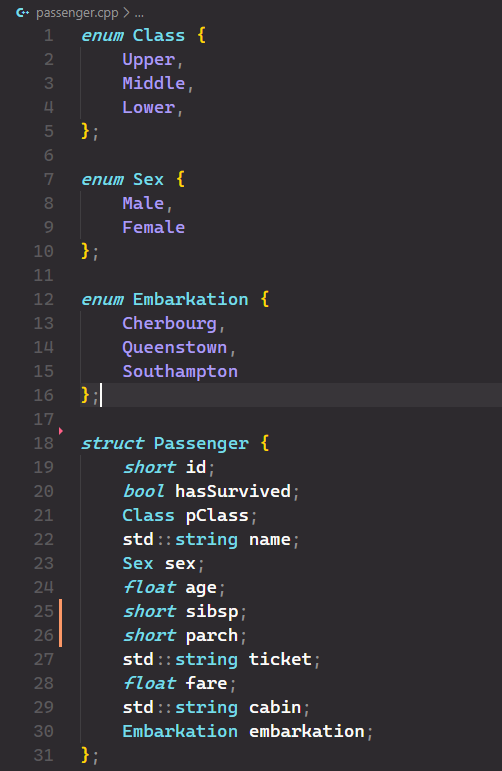
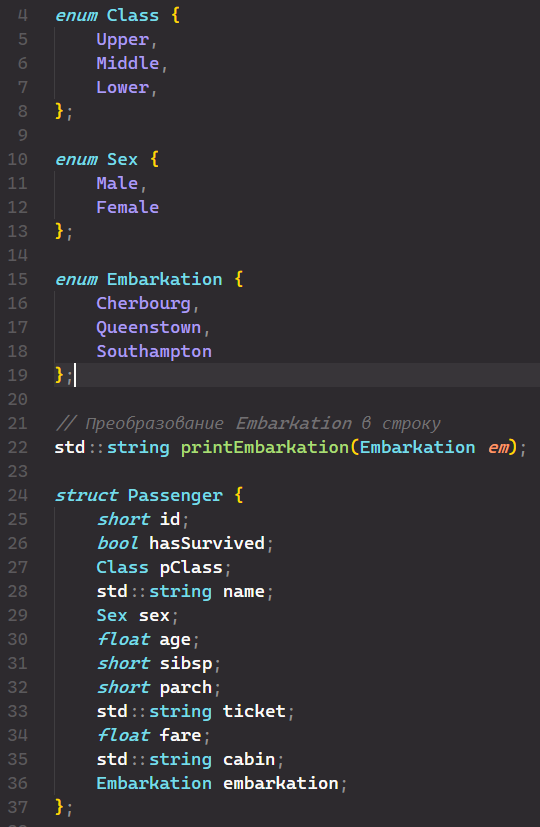
Добавил заголовочные файлы

diff --git a/Lab5/passenger.cpp b/Lab5/passenger.cpp
@@ -1,19 +1,7 @@
-enum Class {
-    Upper,
-    Middle,
-    Lower,
-};
+#include <iostream>
 
-enum Sex {
-    Male,
-    Female
-};
-
-enum Embarkation {
-    Cherbourg,
-    Queenstown,
-    Southampton
-};
+#include "passenger.h"
+#include "readNext.h"
 
 std::string printEmbarkation(Embarkation em) {
     switch (em) {
@@ -28,21 +16,6 @@ std::string printEmbarkation(Embarkation em) {
             return "Unknown";
     }
 }
-
-struct Passenger {
-    short id;
-    bool hasSurvived;
-    Class pClass;
-    std::string name;
-    Sex sex;
-    float age;
-    short sibsp;
-    short parch;
-    std::string ticket;
-    float fare;
-    std::string cabin;
-    Embarkation embarkation;
-};
 
 void initPassenger(Passenger* psg, char* string) {
     // PassengerId, Survived, Pclass, Name, Sex, Age, SibSp, Parch, Ticket, Fare, Cabin, Embarked

diff --git a/Lab5/passenger.h b/Lab5/passenger.h
@@ -1,0 +1,45 @@
+#ifndef PASSENGER_H
+#define PASSENGER_H
+
+enum Class {
+    Upper,
+    Middle,
+    Lower,
+};
+
+enum Sex {
+    Male,
+    Female
+};
+
+enum Embarkation {
+    Cherbourg,
+    Queenstown,
+    Southampton
+};
+
+// Преобразование Embarkation в строку
+std::string printEmbarkation(Embarkation em);
+
+struct Passenger {
+    short id;
+    bool hasSurvived;
+    Class pClass;
+    std::string name;
+    Sex sex;
+    float age;
+    short sibsp;
+    short parch;
+    std::string ticket;
+    float fare;
+    std::string cabin;
+    Embarkation embarkation;
+};
+
+// Инициализация пассажира по строке из CSV файла
+void initPassenger(Passenger* psg, char* string);
+
+// Debug
+void printPassenger(Passenger psg);
+
+#endif

diff --git a/Lab5/readNext.h b/Lab5/readNext.h
@@ -1,0 +1,22 @@
+#ifndef READNEXT_H
+#define READNEXT_H
+
+// Аналог strtok, который может читать пустые лексемы
+char* readUntil(char* string, char delim);
+
+// readUntil, который возвращает std::string
+std::string readNextStr(char* string, char delim);
+
+// Чтение имени пассажира
+std::string readNextName(char* string);
+
+// readUntil, который возвращает int
+int readNextInt(char* string, char delim, int defaultValue = -1);
+
+// readUntil, который возвращает bool
+bool readNextBool(char* string, char delim);
+
+// readUntil, который возвращает float
+float readNextFloat(char* string, char delim, float defaultValue = -1.0);
+
+#endif

diff --git a/Lab5/main.cpp b/Lab5/main.cpp
@@ -4,9 +4,9 @@
 #include <cstdlib>
 
 // Файл с вспомогательными функциями для анализа строки
-#include "readNext.cpp"
+#include "readNext.h"
 // Файл со структурой и остальным необходимым
-#include "passenger.cpp"
+#include "passenger.h"
 
 std::vector<Passenger> passengers;
 

diff --git a/Lab5/readNext.cpp b/Lab5/readNext.cpp
@@ -1,4 +1,5 @@
 #include <cstring>
+#include <iostream>
 
 // Аналог strtok, который может читать пустые лексемы
 char* readUntil(char* string, char delim) {

diff --git a/Lab5/REPORT.md b/Lab5/REPORT.md
@@ -43,17 +43,22 @@ Cтудента 1 курса группы ПИ-б-о-191(1)<br/>
 ![Изображение№2](/Lab5/Screenshots/Screenshot_2.png "Рис.2")\
 *Рис.2 Созданная структура данных для чтения train.csv*
 
-Я разделил свою программу на три файла:
+Я разделил свою программу на три основных файла и два вспомогательных:
 
 1. main.cpp, содержащий в себе основной код чтения из train.csv и сборки финального расчёта.
-2. passenger.cpp, содержащий в себе структуру Passenger, её перечисления, а так же вспомогательные функции вроде инициализации пассажира из си-строки.
-3. readNext.cpp, содержащий в себе функции по упрощению разделения строки на лексемы и дальнейшей конвертации в различные типы.
+2. passenger.cpp, содержащий в себе реализацию функций по инициализации структуры Passenger, а так же превращения enum Embarkation в строку
+3. passenger.h, являющийся заголовочным файлом для passenger.cpp
+4. readNext.cpp, содержащий в себе реализации функций по упрощению разделения строки на лексемы и дальнейшей конвертации в различные типы.
+5. readNext.h - заголовочный файл readNext.cpp.
 
 Как выглядит мой финальный код:
 
-**passenger.cpp**
+**passenger.h**
 
 ```cpp
+#ifndef PASSENGER_H
+#define PASSENGER_H
+
 enum Class {
     Upper,
     Middle,
@@ -71,19 +76,8 @@ enum Embarkation {
     Southampton
 };
 
-std::string printEmbarkation(Embarkation em) {
-    switch (em) {
-        case Cherbourg:
-            return "Cherbourg";
-        case Queenstown:
-            return "Queenstown";
-        case Southampton:
-            return "Southampton";
-
-        default:
-            return "Unknown";
-    }
-}
+// Преобразование Embarkation в строку
+std::string printEmbarkation(Embarkation em);
 
 struct Passenger {
     short id;
@@ -99,6 +93,64 @@ struct Passenger {
     std::string cabin;
     Embarkation embarkation;
 };
+
+// Инициализация пассажира по строке из CSV файла
+void initPassenger(Passenger* psg, char* string);
+
+// Debug
+void printPassenger(Passenger psg);
+
+#endif
+```
+
+**readNext.h**
+
+```cpp
+#ifndef READNEXT_H
+#define READNEXT_H
+
+// Аналог strtok, который может читать пустые лексемы
+char* readUntil(char* string, char delim);
+
+// readUntil, который возвращает std::string
+std::string readNextStr(char* string, char delim);
+
+// Чтение имени пассажира
+std::string readNextName(char* string);
+
+// readUntil, который возвращает int
+int readNextInt(char* string, char delim, int defaultValue = -1);
+
+// readUntil, который возвращает bool
+bool readNextBool(char* string, char delim);
+
+// readUntil, который возвращает float
+float readNextFloat(char* string, char delim, float defaultValue = -1.0);
+
+#endif
+```
+
+**passenger.cpp**
+
+```cpp
+#include <iostream>
+
+#include "passenger.h"
+#include "readNext.h"
+
+std::string printEmbarkation(Embarkation em) {
+    switch (em) {
+        case Cherbourg:
+            return "Cherbourg";
+        case Queenstown:
+            return "Queenstown";
+        case Southampton:
+            return "Southampton";
+
+        default:
+            return "Unknown";
+    }
+}
 
 void initPassenger(Passenger* psg, char* string) {
     // PassengerId, Survived, Pclass, Name, Sex, Age, SibSp, Parch, Ticket, Fare, Cabin, Embarked
@@ -134,6 +186,7 @@ void printPassenger(Passenger psg) {
 
 ```cpp
 #include <cstring>
+#include <iostream>
 
 // Аналог strtok, который может читать пустые лексемы
 char* readUntil(char* string, char delim) {
@@ -207,9 +260,9 @@ float readNextFloat(char* string, char delim, float defaultValue = -1.0) {
 #include <cstdlib>
 
 // Файл с вспомогательными функциями для анализа строки
-#include "readNext.cpp"
+#include "readNext.h"
 // Файл со структурой и остальным необходимым
-#include "passenger.cpp"
+#include "passenger.h"
 
 std::vector<Passenger> passengers;
 
@@ -321,10 +374,10 @@ int main() {
 ```
 
 Ссылка на полученный файл:
-[output.txt](/Lab5/output.txt "Необязательная подсказка")
+[output.txt](/Lab5/output.txt)
 
 * * *
 
 ## Вывод
 
-Я научился работать с текстовыми файлами, закрепил навыки работы со структурами.
+Я научился работать с текстовыми файлами, закрепил навыки работы со структурами, закрепил навыки работы с множественными файлами в проекте.
